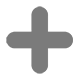
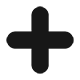
美化界面
对UI界面做了大刀阔斧的美化

diff --git a/pages/randomNum/randomNum.js b/pages/randomNum/randomNum.js
@@ -1,102 +1,95 @@
 // pages/ramdomNum/randomNum.js
 Page({
-  data:{
-    num1:1,
-    num2:100,
-    result:"?",
+  data: {
+    num1: 1,
+    num2: 100,
+    result: "?",
+    hideBtn: false
   },
-  onLoad:function(options){
+  onLoad: function (options) {
     // 页面初始化 options为页面跳转所带来的参数
-      this.timer = null;
-      this.t = 50; //数字正常变化的时间间隔
-      this.count = 0;// 数字正常变化的次数，大于这个次数后数字变化速度逐渐变慢
+    this.timer = null;
+    this.t = 50; //数字正常变化的时间间隔
+    this.count = 0;// 数字正常变化的次数，大于这个次数后数字变化速度逐渐变慢
 
-      // 摇一摇
-      this.lastX=0;
-      this.lastY=0;
-      this.lastZ=0;
-      var that = this;
-      wx.onAccelerometerChange(function(res){
-        if(that.lastX){
-          var deltaX = Math.abs(res.x-that.lastX),
-            deltaY=Math.abs(res.y-that.lastY),
-            deltaZ=Math.abs(res.z-that.lastZ);
-            if(deltaX > 0.9 || deltaY>0.9 || deltaZ>0.9){
-              that.start();
-            }
+    // 摇一摇
+    this.lastX = 0;
+    this.lastY = 0;
+    this.lastZ = 0;
+    var that = this;
+    wx.onAccelerometerChange(function (res) {
+      if (that.lastX) {
+        var deltaX = Math.abs(res.x - that.lastX),
+          deltaY = Math.abs(res.y - that.lastY),
+          deltaZ = Math.abs(res.z - that.lastZ);
+        if (deltaX > 0.9 || deltaY > 0.9 || deltaZ > 0.9) {
+          that.start();
         }
-        that.lastX = res.x;
-        that.lastY = res.y;
-        that.lastZ = res.z;
-      })
-       
+      }
+      that.lastX = res.x;
+      that.lastY = res.y;
+      that.lastZ = res.z;
+    })
+
   },
-  onHide:function(){
+  onHide: function () {
     // 页面隐藏
     clearInterval(this.timer);
-    this.t= 50;
+    this.t = 50;
     this.count = 0;
   },
-  
 
-  setNum1:function(event){
+
+  setNum1: function (event) {
     var num = parseInt(event.detail.value);
     this.setData({
-      num1:num
+      num1: num
     });
   },
- 
-  setNum2:function(event){
+
+  setNum2: function (event) {
     var num = parseInt(event.detail.value);
     this.setData({
-      num2 : num
+      num2: num
     })
   },
 
-  // start:function(event){
-  //   if(this.data.btn == "开始"){
-  //     this.timer=setInterval(this.roll,100);
-  //     this.setData({
-  //       btn:"停止"
-  //     })
-  //   }else{
-  //     clearInterval(this.timer);
-  //     this.setData({
-  //       btn:"开始"
-  //     })
-  //   }
-  // },
-
-  start:function(){
+  start: function () {
     clearTimeout(this.timer);
+    this.setData({
+      hideBtn: true
+    })
     this.roll();
   },
 
-  roll:function(){
-    var max,min;
-    if(this.data.num1 < this.data.num2){
+  roll: function () {
+    var max, min;
+    if (this.data.num1 < this.data.num2) {
       min = this.data.num1;
       max = this.data.num2;
-    }else{
+    } else {
       min = this.data.num2;
       max = this.data.num1;
     }
 
-    var result = min + Math.round(Math.random()*(max - min));
+    var result = min + Math.round(Math.random() * (max - min));
     this.setData({
-      result:result
+      result: result
     })
     // 让数字先每50毫秒变化一次，如此变化50次后变化间隔逐渐变大，直到停止
     this.count++;
-    if(this.count < 50){
-      this.timer = setTimeout(this.roll,50);
-    }else{
+    if (this.count < 50) {
+      this.timer = setTimeout(this.roll, 50);
+    } else {
       this.t *= 1.5;
-      if(this.t < 1500){
-        this.timer = setTimeout(this.roll,this.t);
-      }else{
+      if (this.t < 1500) {
+        this.timer = setTimeout(this.roll, this.t);
+      } else {
         this.t = 50;
         this.count = 0;
+        this.setData({
+          hideBtn: false
+        })
       }
     }
   }

diff --git a/pages/custom/custom.js b/pages/custom/custom.js
@@ -2,7 +2,7 @@
 Page({
   data: {
     displayItem: "设置",
-    noData: true
+    hideBtn: true
   },
   onLoad: function (options) {
     // 页面初始化 options为页面跳转所带来的参数
@@ -32,12 +32,12 @@ Page({
     // 若没有设置过项目，或清空了项目，则隐藏开始按钮
     if (wx.getStorageSync('itemsData') && wx.getStorageSync('itemsData').length > 0) {
       this.setData({
-        noData: false
+        hideBtn: false
       })
     } else {
       this.setData({
         displayItem: "设置",
-        noData: true
+        hideBtn: true
       })
     }
   },
@@ -54,6 +54,9 @@ Page({
   },
 
   start: function () {
+    this.setData({
+      hideBtn:true
+    })
     clearTimeout(this.timer);
     this.roll();
   },
@@ -74,6 +77,9 @@ Page({
       } else {
         this.t = 50;
         this.count = 0;
+        this.setData({
+          hideBtn:false
+        })
       }
     }
   }

diff --git a/pages/dices/dices.js b/pages/dices/dices.js
@@ -2,7 +2,8 @@
 Page({
   data: {
     diceCount: 1,
-    dicesData:[]
+    dicesData:[],
+    hideBtn:false
   },
   onLoad: function (options) {
     // 页面初始化 options为页面跳转所带来的参数
